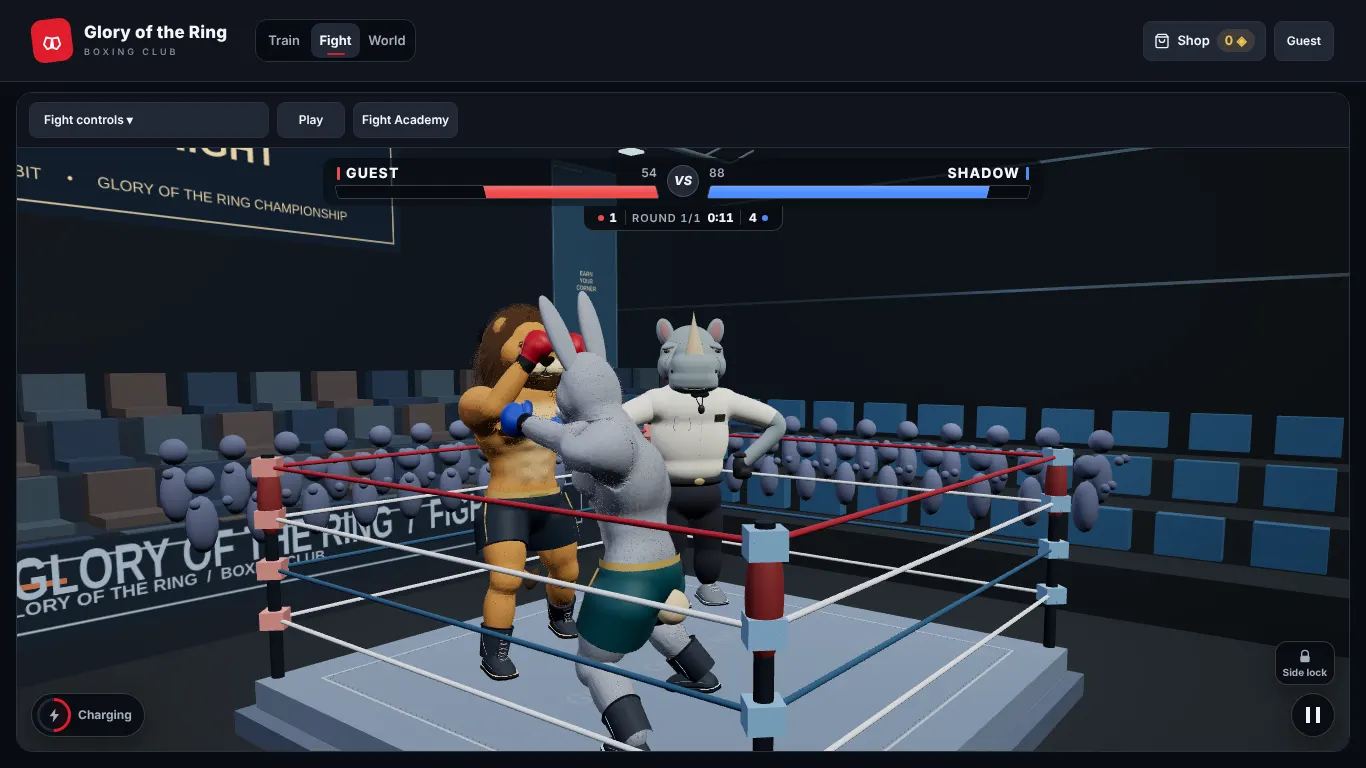
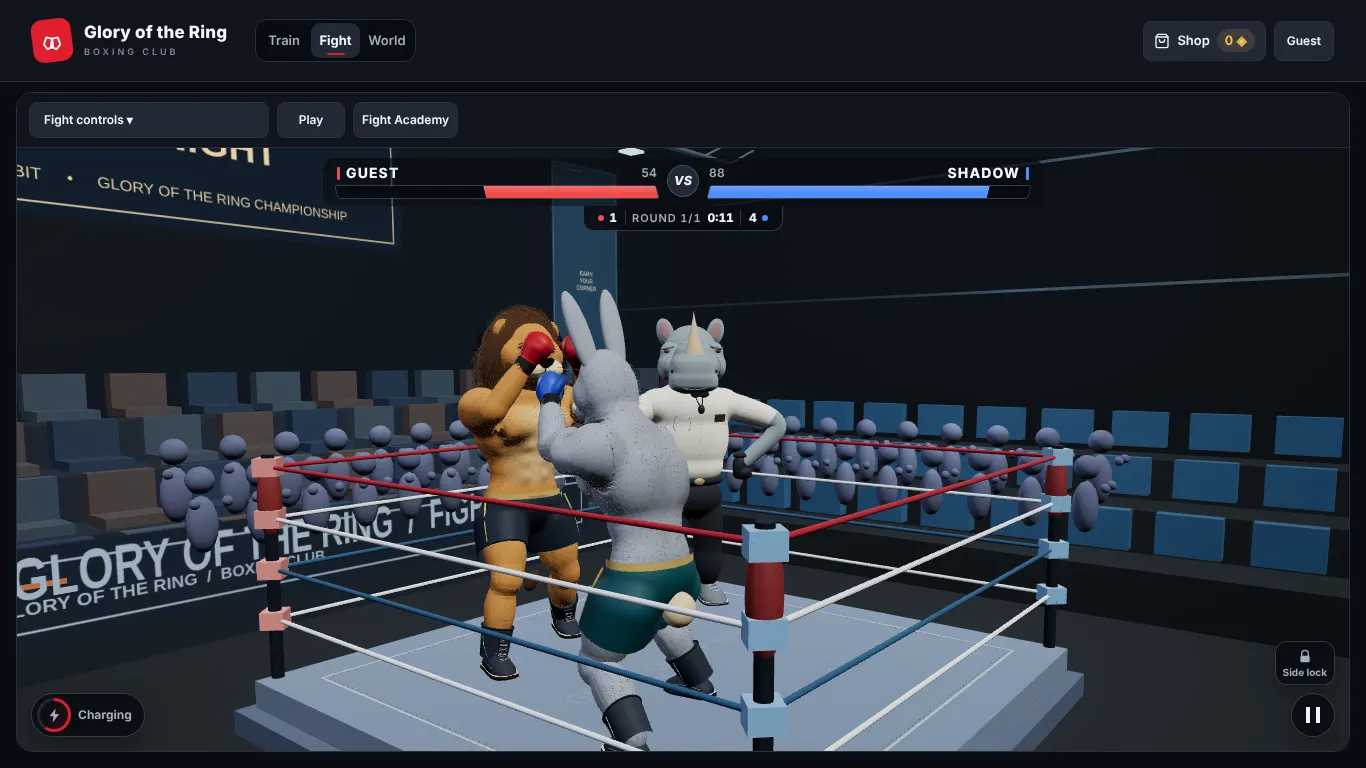
Burst tip hides during pause; QA count-window check and README (GOTR-0005)
Claude-Session: https://claude.ai/code/session_012XYxhJ7jTb1Ye5xdCZM7vq

Changed region(s): [[0.3382, 0.375, 0.5227, 0.9062], [0.3997, 0.75, 0.4612, 0.875], [0.4305, 0.9062, 0.4612, 0.9375]]

diff --git a/burst-ui.js b/burst-ui.js
@@ -48,6 +48,7 @@
   function paint(){
    const m=match(),state=m&&!suspended()?m.burstState?.(actor()):null,v=view(state,{paused:!e.isPlaying,watch:!e.player?.enabled});
    if(tipAt!=null&&(!v||v.reason!=='ready'&&v.reason!=='paused'||m.time-tipAt>6))hideTip();
+   if(tipAt!=null)tip.hidden=v.reason!=='ready';// kept through a pause, shown again on resume
    const key=v?[v.reason,Math.round(v.fill*50),app.lang,v.icon].join('|'):'hidden';if(key===last)return v;last=key;
    button.hidden=!v;document.body.classList.toggle('burst-visible',!!v);if(!v){hideTip();return v;}
    const words=w();button.dataset.state=v.reason;button.disabled=!v.enabled;button.style.setProperty('--burst-fill',v.fill.toFixed(3));

diff --git a/qa/gotr-0005/README.md b/qa/gotr-0005/README.md
@@ -1,0 +1,21 @@
+# GOTR-0005 Burst — evidence
+
+- `tests/burst.test.cjs` — charge rules, Watch-order boundary, Play commit, recovery cost, count/round/KO, button reasons.
+- `browser.cjs [port] [parts]` — real app, parts `watch,play,rules,cup,layout`. Software WebGL renders about 1 fps,
+  so the script advances the real fight clock (`arena.update` → `match.advance`, real poses and contact solver) in 1/60 s
+  steps and skips rendering while it does. Test hook (only for pause/count/KO/layout states): `fighters[actor].burst.charge=1`.
+- `survey-layout.cjs`, `probe.cjs` — diagnostics. `results-*.json` — last run.
+
+## Balance (all in `BoxingFight.burst`, `boxing-fight.js`)
+
+| Rule | Value |
+| --- | --- |
+| Meter at every bell | 0 |
+| Time fill (round live, not during the count) | 0.045 / s (0.9 after 20 s, so time alone never fills it in a 20 s round) |
+| Clean head/body hit landed | +0.10 |
+| Block (glove/arm contact) or evaded punch | +0.07 |
+| No charge while ordered, bursting or recovering | — |
+| Sequence | jab, cross, hook (body), rear uppercut, hook — Super burst without its roll |
+| Speed | each punch 0.76 × the player's move duration (`BoxingInput.durations`) |
+| Cost | 0.7 s committed recovery step (no defence possible), −0.08 stamina, opponent skips its read/reset pause |
+| Damage | no multiplier; contacts score through the normal solver, faster gloves give the higher contact speed |
